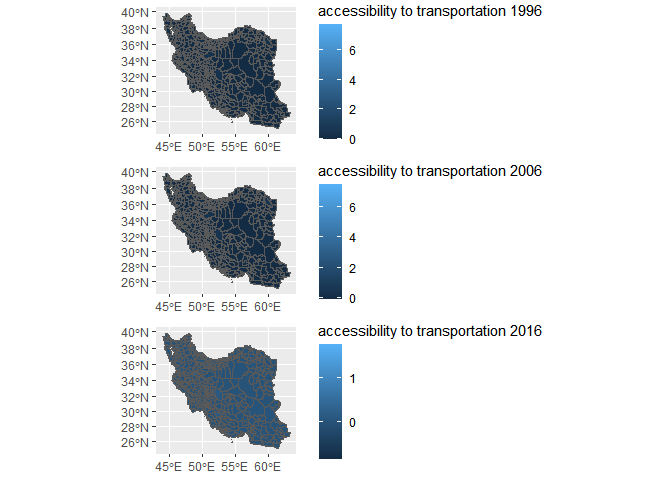
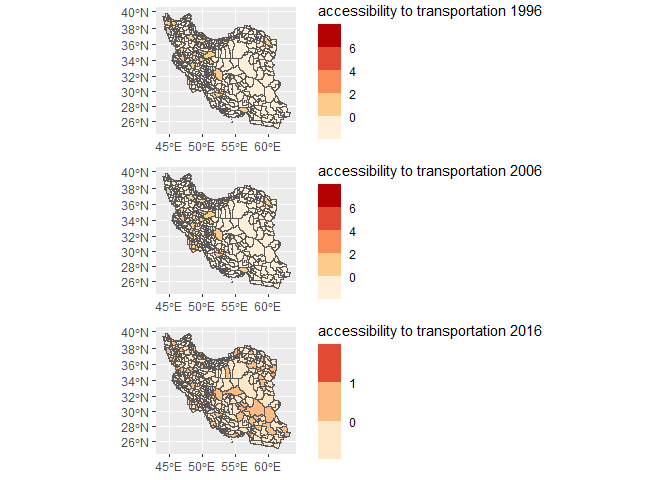
Edits to README

diff --git a/README.md b/README.md
@@ -19,7 +19,7 @@ if(!require(remotes)){
     install.packages("remotes")
     library(remotes)
     }
-remotes::install_github("Mahdismgds/accpack",
+remotes::install_github("Mahdismgds/paccpack",
                          build_vignettes = TRUE)
 ```
 
@@ -52,20 +52,37 @@ library(sf)
 library(ggplot2)
 library(gridExtra)
 
-accessibility <- read_sf("D:/packages/shp/accessibility.shp")
+#accessibility <- read_sf("D:/packages/shp/accessibility.shp")
+data("accessibility")
 
-acc_2016 <- ggplot() + geom_sf(data = accessibility, aes(fill = acc_p_2016), size = 0.01) + labs(fill = "accessibility to transportation 2016") + 
-   coord_sf(crs = "+proj=merc")
+acc_2016 <- ggplot() + 
+  geom_sf(data = accessibility, 
+          aes(fill = acc_p_2016),
+          size = 0.01) + 
+  labs(fill = "accessibility to transportation 2016") + 
+  coord_sf(crs = "+proj=merc") +
+  scale_fill_fermenter(palette = "OrRd", direction = 1)
 
-acc_2006 <- ggplot() + geom_sf(data = accessibility, aes(fill = acc_p_2006), size = 0.01) + labs(fill = "accessibility to transportation 2006") + 
-   coord_sf(crs = "+proj=merc")
-acc_1996 <- ggplot() + geom_sf(data = accessibility, aes(fill = acc_p_1996), size = 0.01) + labs(fill = "accessibility to transportation 1996") + 
-   coord_sf(crs = "+proj=merc")
+acc_2006 <- ggplot() + 
+  geom_sf(data = accessibility, 
+          aes(fill = acc_p_2006), 
+          size = 0.01) + 
+  labs(fill = "accessibility to transportation 2006") +
+  coord_sf(crs = "+proj=merc") + 
+  scale_fill_fermenter(palette = "OrRd", direction = 1)
+
+acc_1996 <- ggplot() + 
+  geom_sf(data = accessibility, 
+          aes(fill = acc_p_1996), 
+          size = 0.01) + 
+  labs(fill = "accessibility to transportation 1996") +
+  coord_sf(crs = "+proj=merc") + 
+  scale_fill_fermenter(palette = "OrRd", direction = 1)
  
 grid.arrange(acc_1996, acc_2006, acc_2016)
 ```
 
-<img src="man/figures/README-unnamed-chunk-2-1.png" width="100%" />
+<img src="man/figures/README-unnamed-chunk-2-1.png" width="100%" height="12" />
 
 ![](images/Picture1.jpg "Potential accessubility during 1996-2016")
 
